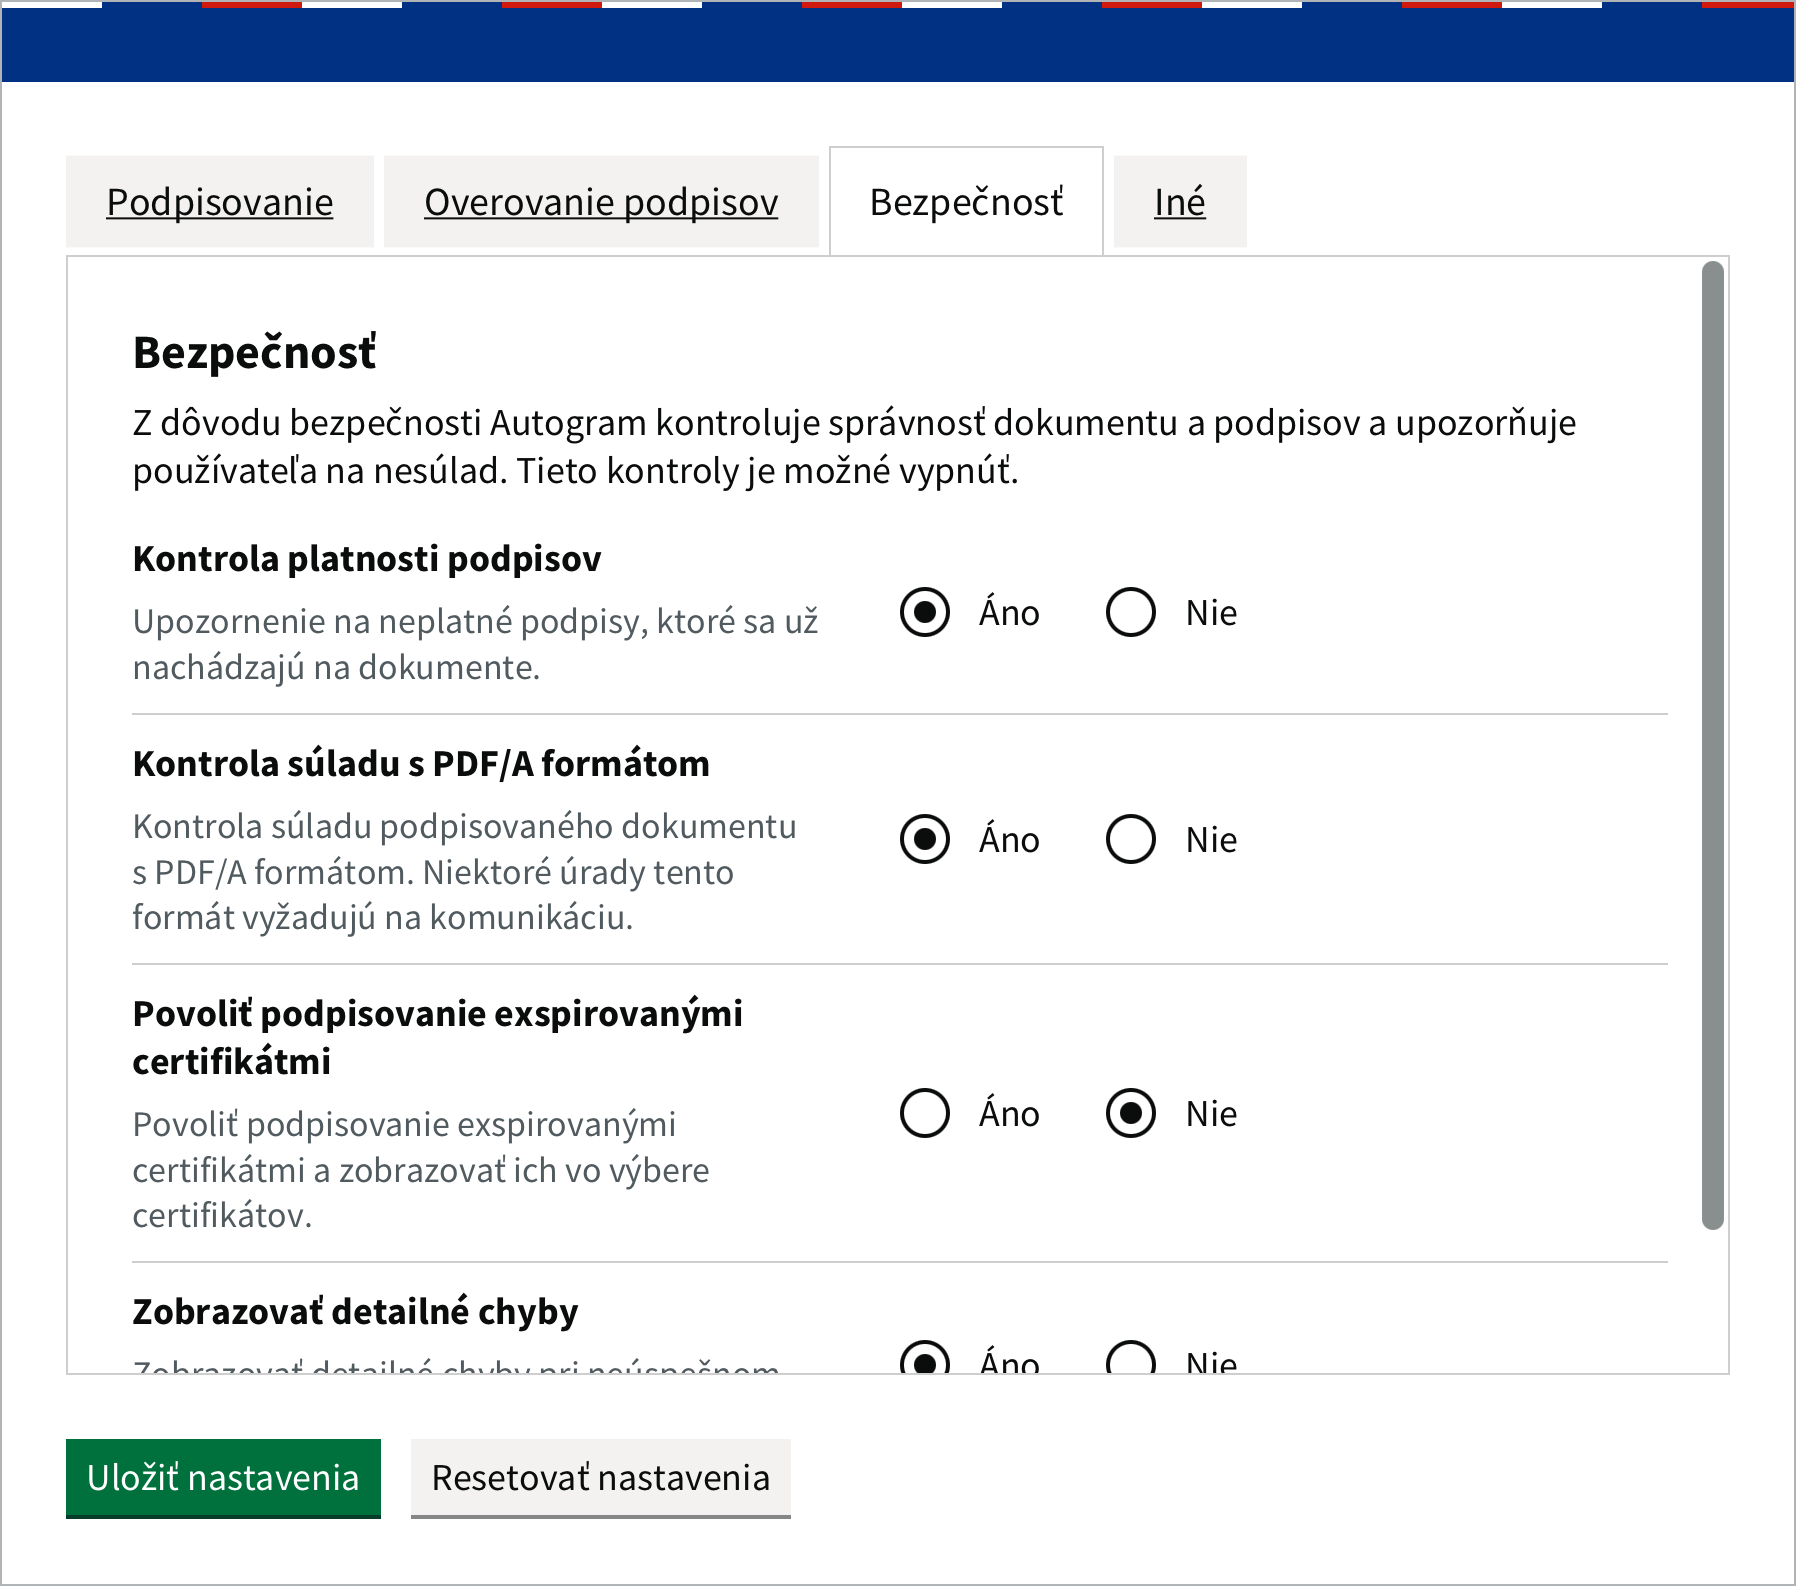
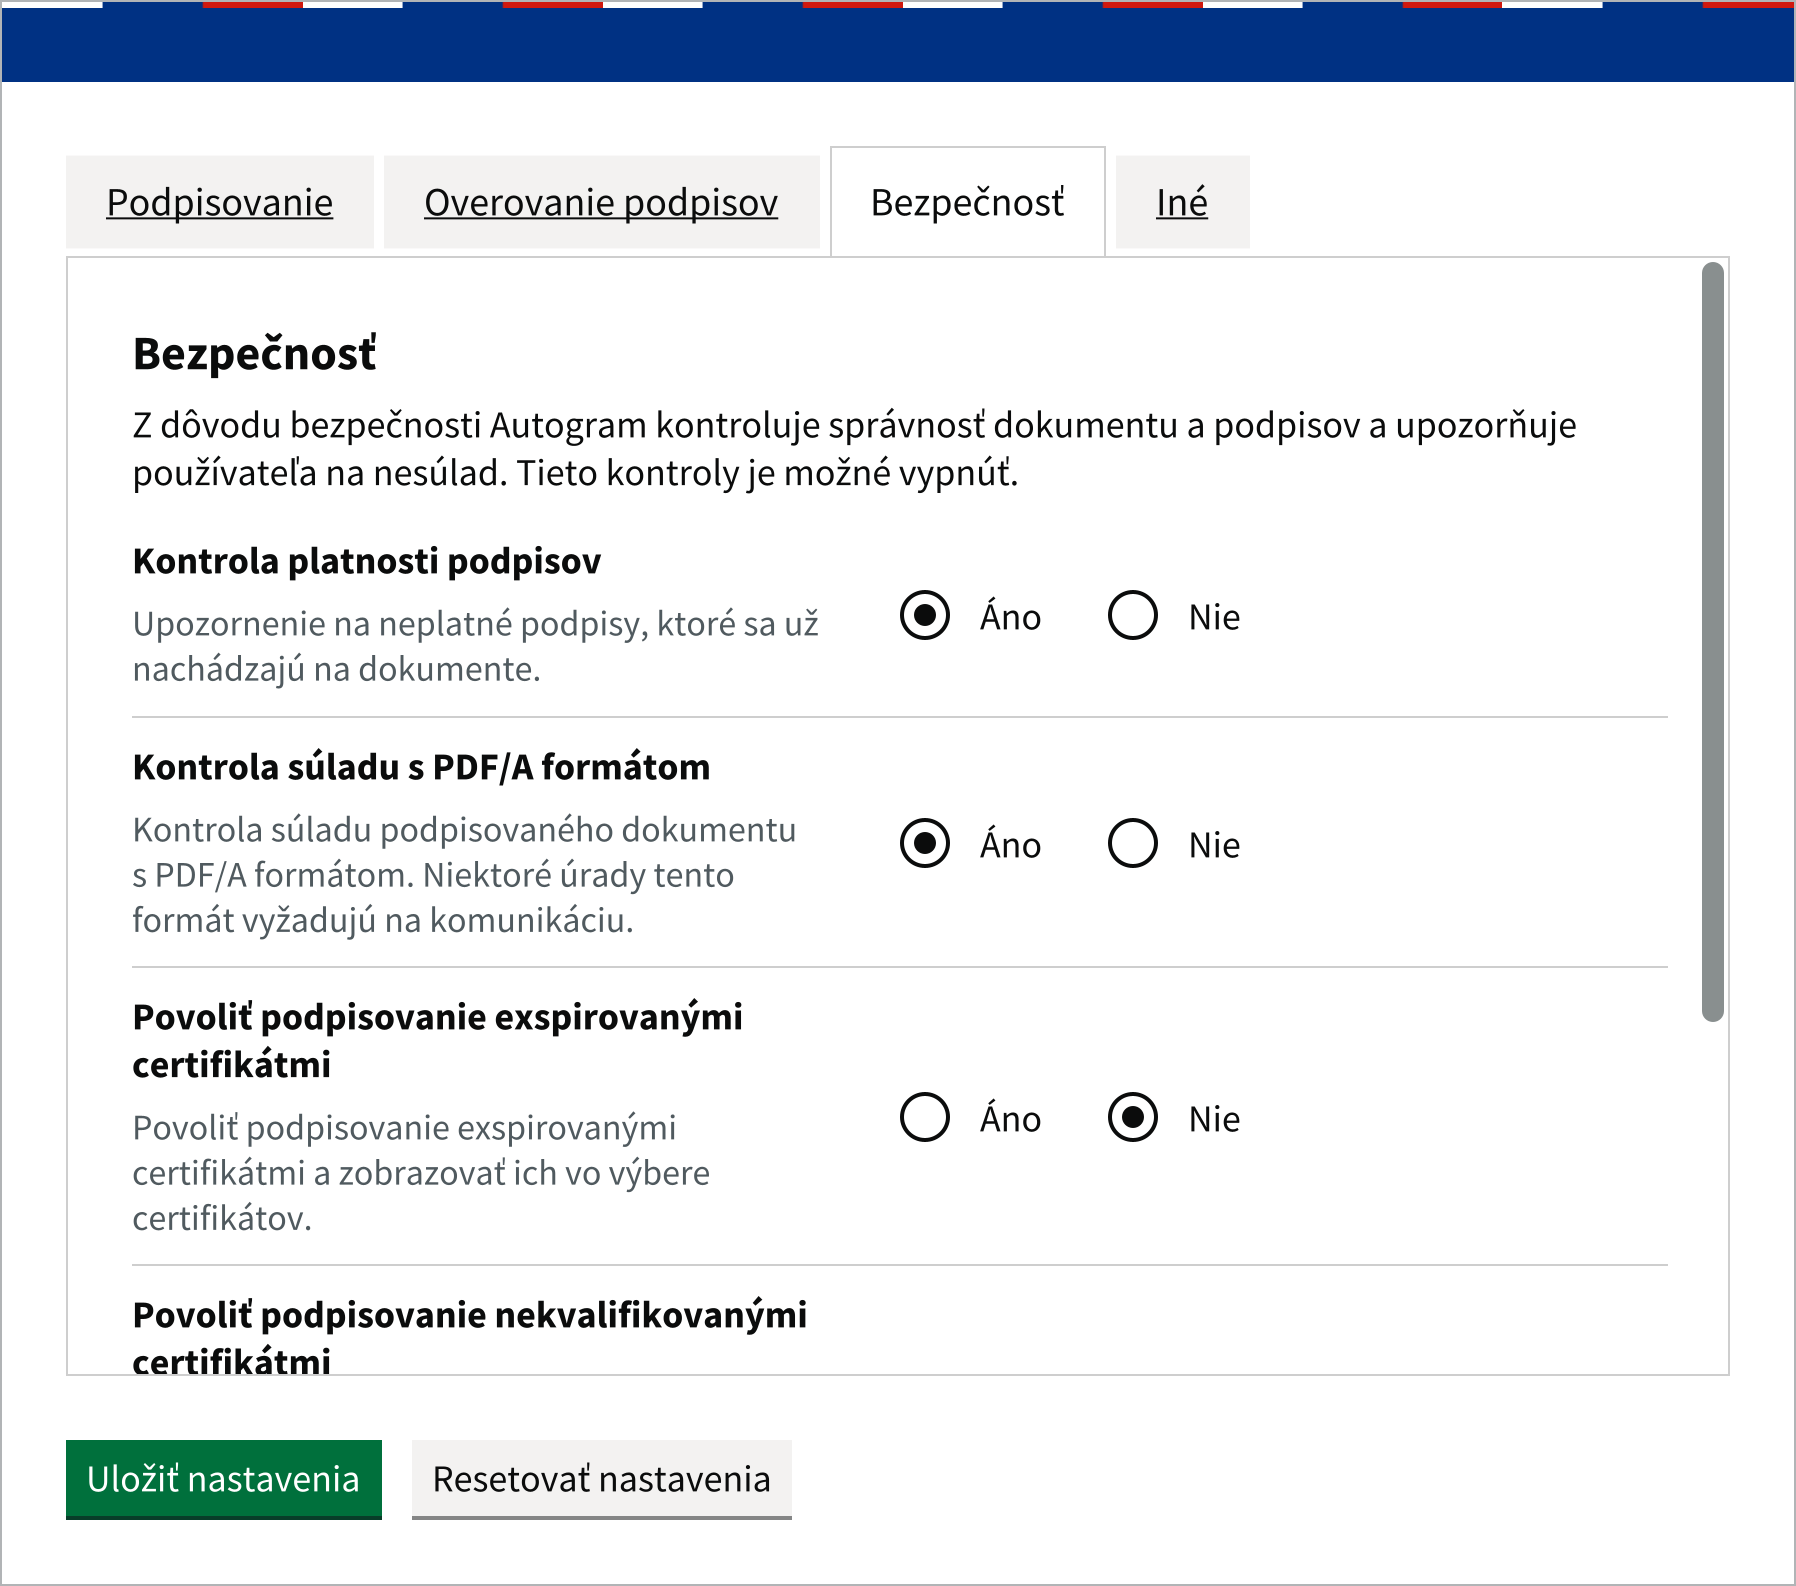
document certificate checks in certificate selection

diff --git a/docs/docs/sk/card-and-pin.md b/docs/docs/sk/card-and-pin.md
@@ -41,7 +41,7 @@ Niektoré karty majú certifikáty uložené vo viacerých častiach, ktoré sa 
 
 Na karte Gemalto IDPrime 940 býva kvalifikovaný certifikát v inom slote ako ostatné certifikáty. Ak po výbere slotu neuvidíte svoj kvalifikovaný certifikát alebo podpis zlyhá, kliknite na **Podpísať iným certifikátom** a vyberte druhý slot.
 
-Občiansky preukaz má okrem kvalifikovaného certifikátu aj druhý, ktorý sa na kvalifikované podpisovanie nepoužíva. Autogram ho predvolene neponúka. Ak v [Nastaveniach](settings.md#ine) zapnete **Zobraziť EP certifikát občianskeho preukazu**, preukaz bude v zozname dvakrát. Na bežné podpisovanie vyberte **kvalifikovaný**.
+Občiansky preukaz má okrem kvalifikovaného certifikátu aj druhý, ktorý sa na kvalifikované podpisovanie nepoužíva. Autogram ho predvolene neponúka. Ak v [Nastaveniach](settings.md#ine) zapnete **Zobraziť EP certifikát občianskeho preukazu**, preukaz bude v zozname dvakrát. Na bežné podpisovanie vyberte **kvalifikovaný**. Druhý certifikát je nekvalifikovaný, takže na podpis ním treba zapnúť aj **Povoliť podpisovanie nekvalifikovanými certifikátmi**.
 
 ![Občiansky preukaz s kvalifikovaným a nekvalifikovaným certifikátom](/assets/images/screenshots/sk/token-picker-eid.png)
 
@@ -73,6 +73,31 @@ Pri občianskom preukaze sa toto okno nezobrazí. Kód k nemu (BOK) si vypýta e
 Autogram zobrazí certifikáty z vybranej karty. Vyberte ten, ktorým chcete podpisovať, a kliknite na **Podpísať**.
 
 ![Výber certifikátu](/assets/images/screenshots/sk/certificate-picker.png)
+
+Kým Autogram overuje certifikáty, tlačidlo **Podpísať** je neaktívne a píše **Overuje sa platnosť certifikátov…**.
+
+![Overovanie certifikátov](/assets/images/screenshots/sk/certificate-picker-checking.png)
+
+Autogram zisťuje:
+
+- **či certifikát nebol zrušený**, napríklad po strate karty. Pýta sa na to certifikačnej autority, ktorá ho vydala, preto potrebuje pripojenie na internet.
+- **či je certifikát kvalifikovaný** podľa dôveryhodných zoznamov krajín zapnutých v [Nastaveniach](settings.md#overovanie-podpisov). Kvalifikovaný elektronický podpis vytvoríte iba kvalifikovaným certifikátom.
+
+Overovanie zvyčajne trvá zlomok sekundy. Krátko po spustení Autogramu ešte počká, kým sa načítajú dôveryhodné zoznamy, a tlačidlo vtedy píše **Načítavajú sa dôveryhodné zoznamy…**. Pri platnom kvalifikovanom certifikáte sa nič nezobrazí. Inak je pri certifikáte štítok:
+
+![Certifikáty so štítkami po overení](/assets/images/screenshots/sk/certificate-picker-checks.png)
+
+| Štítok | Čo znamená | Dá sa ním podpísať? |
+| --- | --- | --- |
+| **Zrušený certifikát** | Certifikačná autorita certifikát zrušila. | Nie |
+| **Nekvalifikovaný certifikát** | Certifikát nie je kvalifikovaný podľa dôveryhodných zoznamov. | Iba ak je v [Nastaveniach](settings.md#bezpecnost) zapnuté **Povoliť podpisovanie nekvalifikovanými certifikátmi** |
+| **Platnosť sa nepodarilo overiť** | Autogram nezistil, či certifikát nebol zrušený, napríklad bez pripojenia na internet. | Áno |
+| **Kvalifikáciu sa nepodarilo overiť** | Dôveryhodné zoznamy sa nepodarilo načítať, napríklad pri prvom spustení Autogramu bez pripojenia na internet. | Áno |
+| **Exspirovaný certifikát** | Platnosť certifikátu uplynula. Takéto certifikáty sa zobrazia, iba ak je v Nastaveniach zapnuté **Povoliť podpisovanie exspirovanými certifikátmi**. | Áno |
+
+Ak nie je kvalifikovaný žiadny certifikát, Autogram pod nimi zobrazí radu s odkazom **Otvoriť nastavenia**. Najčastejšie je príčinou to, že certifikát vydala certifikačná autorita z krajiny, ktorej dôveryhodný zoznam nemáte zapnutý. Autogram vtedy túto krajinu v rade uvedie. Keď nastavenia zatvoríte, výber certifikátu sa zobrazí znova.
+
+![Rada, keď nie je kvalifikovaný žiadny certifikát](/assets/images/screenshots/sk/certificate-picker-hint.png)
 
 ## Podpisový PIN {#podpisovy-pin}
 

diff --git a/docs/docs/en/card-and-pin.md b/docs/docs/en/card-and-pin.md
@@ -41,7 +41,7 @@ Some cards store certificates in several parts called slots. Such a card appears
 
 On a Gemalto IDPrime 940 card, the qualified certificate is often in a different slot than the other certificates. If you do not see your qualified certificate after choosing a slot, or signing fails, click **Sign with another certificate** and choose the other slot.
 
-Besides the qualified certificate, the Slovak ID card also holds a second one that is not used for qualified signing. Autogram does not offer it by default. If you turn on **Show EP certificate of the ID card** in [Settings](settings.md#other), the ID card appears in the list twice. For ordinary signing, choose **qualified**.
+Besides the qualified certificate, the Slovak ID card also holds a second one that is not used for qualified signing. Autogram does not offer it by default. If you turn on **Show EP certificate of the ID card** in [Settings](settings.md#other), the ID card appears in the list twice. For ordinary signing, choose **qualified**. The second certificate is not qualified, so signing with it also needs **Allow signing with non-qualified certificates**.
 
 ![Slovak ID card with a qualified and a non-qualified certificate](/assets/images/screenshots/en/token-picker-eid.png)
 
@@ -73,6 +73,31 @@ This window does not appear for the Slovak ID card. Its code (BOK) is asked for 
 Autogram shows the certificates on the chosen card. Choose the one you want to sign with and click **Sign**.
 
 ![Choosing a certificate](/assets/images/screenshots/en/certificate-picker.png)
+
+While Autogram checks the certificates, the **Sign** button is inactive and reads **Checking certificate validity…**.
+
+![Checking the certificates](/assets/images/screenshots/en/certificate-picker-checking.png)
+
+Autogram checks:
+
+- **whether the certificate was revoked**, for example after the card was lost. It asks the certification authority that issued the certificate, so it needs an internet connection.
+- **whether the certificate is qualified** according to the trusted lists of the countries turned on in [Settings](settings.md#signature-validation). Only a qualified certificate makes a qualified electronic signature.
+
+The check usually takes a fraction of a second. Shortly after Autogram starts, it also waits until the trusted lists are loaded, and the button then reads **Loading trusted lists…**. A valid qualified certificate shows nothing. Otherwise the certificate has a label:
+
+![Certificates with labels after the check](/assets/images/screenshots/en/certificate-picker-checks.png)
+
+| Label | What it means | Can you sign with it? |
+| --- | --- | --- |
+| **Revoked certificate** | The certification authority revoked the certificate. | No |
+| **Non-qualified certificate** | The certificate is not qualified according to the trusted lists. | Only if **Allow signing with non-qualified certificates** is turned on in [Settings](settings.md#security) |
+| **Validity could not be verified** | Autogram could not find out whether the certificate was revoked, for example without an internet connection. | Yes |
+| **Qualification could not be verified** | The trusted lists could not be loaded, for example when Autogram first starts without an internet connection. | Yes |
+| **Expired certificate** | The certificate has expired. Such certificates are shown only if **Allow signing with expired certificates** is turned on in Settings. | Yes |
+
+If none of the certificates is qualified, Autogram shows a hint below them with an **Open settings** link. The most common reason is that the certificate was issued by a certification authority from a country whose trusted list is turned off. Autogram then names that country in the hint. When you close the settings, the certificate selection appears again.
+
+![Hint when none of the certificates is qualified](/assets/images/screenshots/en/certificate-picker-hint.png)
 
 ## Signing PIN {#signing-pin}
 

diff --git a/docs/docs/sk/settings.md b/docs/docs/sk/settings.md
@@ -31,6 +31,8 @@ Aby bola časová pečiatka pri overovaní uznaná, jej poskytovateľ musí byť
 
 Zoznam krajín EÚ, podľa ktorých dôveryhodných zoznamov Autogram overuje podpisy. Predvolene sú zapnuté Slovensko, Česko, Rakúsko, Poľsko, Maďarsko, Belgicko, Holandsko a Španielsko. Ak dostávate dokumenty podpísané certifikátom z inej krajiny, zapnite ju. Viac krajín overovanie spomalí.
 
+Podľa týchto zoznamov Autogram zisťuje aj to, či je kvalifikovaný certifikát, ktorým podpisujete. Ak máte certifikát z inej krajiny, zapnite aj ju, inak ho Autogram vo [výbere certifikátu](card-and-pin.md#vyber-certifikatu) označí ako nekvalifikovaný.
+
 ## Bezpečnosť {#bezpecnost}
 
 ![Nastavenia – Bezpečnosť](/assets/images/screenshots/sk/settings-security.png)
@@ -40,6 +42,7 @@ Zoznam krajín EÚ, podľa ktorých dôveryhodných zoznamov Autogram overuje po
 | **Kontrola platnosti podpisov** | Pred podpisom upozorní na neplatné podpisy, ktoré už dokument obsahuje. Pozrite si [Upozornenia pred podpisom](warnings.md#nedoveryhodne-podpisy). | Áno |
 | **Kontrola súladu s PDF/A formátom** | Pred podpisom upozorní, ak PDF nie je vo formáte PDF/A. Pozrite si [Upozornenia pred podpisom](warnings.md#pdfa). | Áno |
 | **Povoliť podpisovanie exspirovanými certifikátmi** | Vo výbere certifikátu sa zobrazia aj certifikáty s uplynutou platnosťou. Podpis takým certifikátom úrady nemusia prijať. | Nie |
+| **Povoliť podpisovanie nekvalifikovanými certifikátmi** | Vo výbere certifikátu sa dá vybrať aj certifikát, ktorý podľa dôveryhodných zoznamov nie je kvalifikovaný. Podpis takým certifikátom nie je kvalifikovaný elektronický podpis a úrady ho nemusia prijať. Pozrite si [Výber certifikátu](card-and-pin.md#vyber-certifikatu). | Nie |
 | **Zobrazovať detailné chyby** | Ak sa súbor nepodarí otvoriť, zobrazí sa podrobný popis chyby. | Áno |
 
 ## Iné {#ine}
@@ -51,7 +54,7 @@ Zoznam krajín EÚ, podľa ktorých dôveryhodných zoznamov Autogram overuje po
 | **Jazyk** | Jazyk Autogramu: slovenčina, angličtina alebo jazyk systému. | jazyk systému |
 | **Zapnúť Autogram API** | Umožní webovým stránkam a iným aplikáciám posielať Autogramu dokumenty na podpis. Bez neho [podpisovanie na webových stránkach](websites.md) nefunguje. Zmena sa prejaví po reštarte Autogramu. | Áno |
 | **Rozlíšenie náhľadu PDF** | Ostrosť náhľadu PDF. Vyššie rozlíšenie je ostrejšie, no veľké dokumenty sa zobrazujú pomalšie. | 100 dpi |
-| **Zobraziť EP certifikát občianskeho preukazu** | Vo výbere karty ponúkne aj druhý, nekvalifikovaný certifikát občianskeho preukazu. Pozrite si [Viac certifikátov na jednej karte](card-and-pin.md#viac-certifikatov-na-jednej-karte). | Nie |
+| **Zobraziť EP certifikát občianskeho preukazu** | Vo výbere karty ponúkne aj druhý, nekvalifikovaný certifikát občianskeho preukazu. Na podpis ním treba zapnúť aj **Povoliť podpisovanie nekvalifikovanými certifikátmi**. Pozrite si [Viac certifikátov na jednej karte](card-and-pin.md#viac-certifikatov-na-jednej-karte). | Nie |
 | **Cesta k vlastnému úložisku kľúčov** | Súbor s certifikátom a kľúčom (JKS) pre voľbu **Zo súboru**. | prázdne |
 | **Cesta k vlastnému ovládaču pre PKCS11 token** | Ovládač karty, ktorú Autogram nepozná. | prázdne |
 | **HTTP proxy** | Proxy server vo formáte `http://host:port`, cez ktorý Autogram posiela všetku komunikáciu do internetu: sťahovanie dôveryhodných zoznamov, overovanie platnosti certifikátov (CRL, OCSP), časové pečiatky, formuláre a kontrolu aktualizácií. Autogram dôveruje aj certifikátom, ktorým dôveruje operačný systém, takže funguje aj s proxy, ktorá kontroluje HTTPS komunikáciu. Prihlasovanie do proxy nie je podporované. Zmena sa prejaví po reštarte Autogramu. | prázdne (bez proxy) |

diff --git a/docs/docs/en/settings.md b/docs/docs/en/settings.md
@@ -31,6 +31,8 @@ For a timestamp to be recognised during validation, its provider must be qualifi
 
 The list of EU countries whose trusted lists Autogram uses to validate signatures. By default, Slovakia, Czechia, Austria, Poland, Hungary, Belgium, the Netherlands and Spain are on. If you receive documents signed with a certificate from another country, turn it on. More countries slow down validation.
 
+Autogram also uses these lists to find out whether the certificate you sign with is qualified. If your certificate is from another country, turn that country on too, otherwise Autogram marks the certificate as non-qualified in the [certificate selection](card-and-pin.md#choosing-the-certificate).
+
 ## Security {#security}
 
 ![Settings – Security](/assets/images/screenshots/en/settings-security.png)
@@ -40,6 +42,7 @@ The list of EU countries whose trusted lists Autogram uses to validate signature
 | **Signature validity check** | Before signing, warns about invalid signatures the document already has. See [Warnings before signing](warnings.md#untrusted-signatures). | Yes |
 | **PDF/A compliance check** | Before signing, warns if the PDF is not in PDF/A format. See [Warnings before signing](warnings.md#pdfa). | Yes |
 | **Allow signing with expired certificates** | Expired certificates are also shown in the certificate list. Authorities may not accept a signature made with one. | No |
+| **Allow signing with non-qualified certificates** | A certificate that is not qualified according to the trusted lists can also be chosen in the certificate selection. A signature made with it is not a qualified electronic signature and authorities may not accept it. See [Choosing the certificate](card-and-pin.md#choosing-the-certificate). | No |
 | **Display detailed errors** | If a file cannot be opened, shows a detailed description of the error. | Yes |
 
 ## Other {#other}
@@ -51,7 +54,7 @@ The list of EU countries whose trusted lists Autogram uses to validate signature
 | **Language** | Autogram's language: Slovak, English or the system language. | system language |
 | **Enable Autogram API** | Lets websites and other applications send documents to Autogram for signing. Without it, [signing on websites](websites.md) does not work. The change takes effect after restarting Autogram. | Yes |
 | **PDF preview resolution** | Sharpness of the PDF preview. A higher resolution is sharper, but large documents are displayed more slowly. | 100 dpi |
-| **Show EP certificate of the ID card** | Also offers the second, non-qualified certificate of the Slovak ID card. See [Several certificates on one card](card-and-pin.md#several-certificates-on-one-card). | No |
+| **Show EP certificate of the ID card** | Also offers the second, non-qualified certificate of the Slovak ID card. Signing with it also needs **Allow signing with non-qualified certificates**. See [Several certificates on one card](card-and-pin.md#several-certificates-on-one-card). | No |
 | **Path to custom keystore** | A file with a certificate and key (JKS) for the **From file** option. | empty |
 | **Path to custom driver for PKCS11 token** | The driver of a card Autogram does not know. | empty |
 | **HTTP proxy** | A proxy server in the form `http://host:port` that Autogram uses for all internet communication: downloading trusted lists, checking certificate revocation (CRL, OCSP), timestamps, form resources and update checks. Autogram also trusts certificates trusted by the operating system, so it works with proxies that inspect HTTPS traffic too. Proxy authentication is not supported. The change takes effect after restarting Autogram. | empty (no proxy) |
